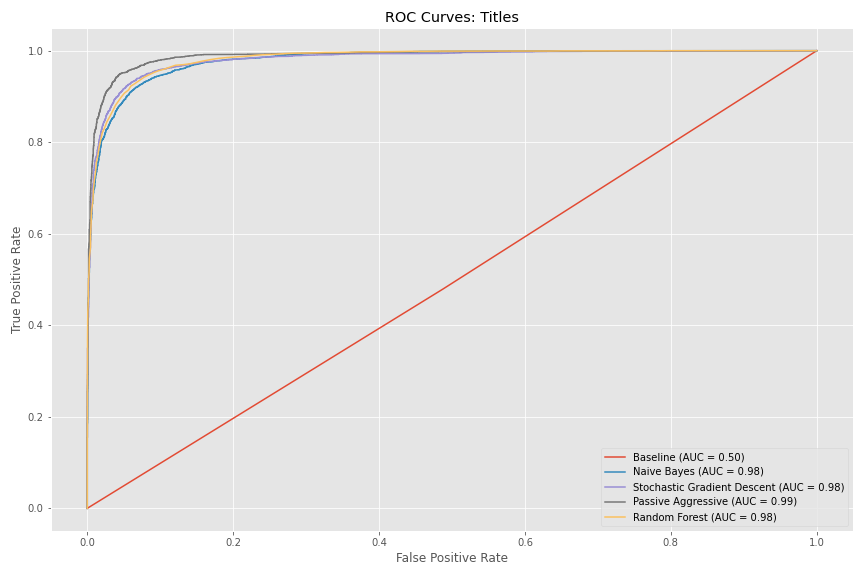
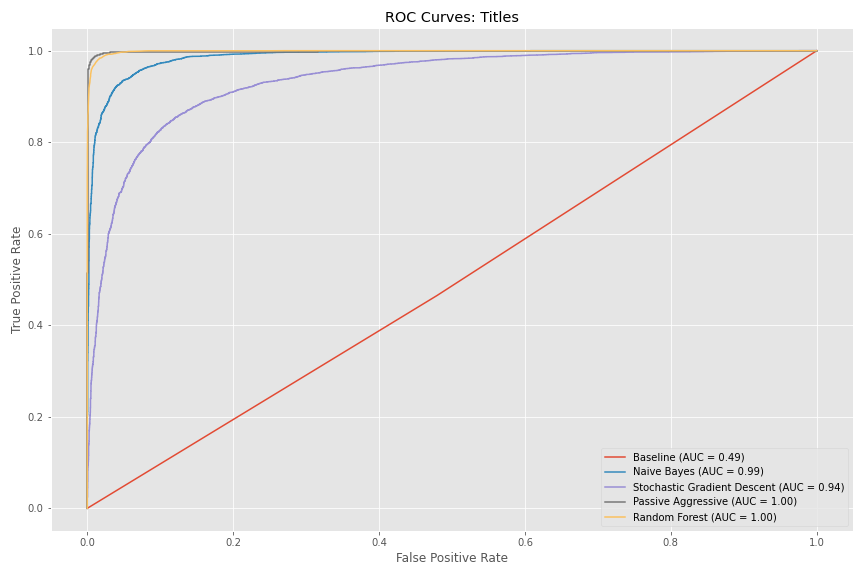
Added final images and src folder

diff --git a/src/models.py b/src/models.py
@@ -13,10 +13,23 @@ from sklearn.metrics import plot_roc_curve, confusion_matrix, classification_rep
 from nltk.tokenize import sent_tokenize
 
 def clean_text(x):
+    term_filter = ['eatured', 'image', 'Image', 'Getty',
+        'via', 'http', 'euters', 'Via', 'Read more:']
     lst = sent_tokenize(x)
-    if lst != [] and ' -' in lst[0]:
-        lst[0] = lst[0].split(' - ')[1]
-    return ''.join(lst)
+    if lst != []:
+        if ' -' in lst[0]:
+            lst[0] = lst[0].split(' -')[1]
+        for term in term_filter:
+            if term in lst[-1]:
+                lst[-1] = ''
+        lst = ''.join(lst)
+    x = str(lst)
+    x = x.replace('Reuters','')
+    x = x.replace('reuters', '')
+    x = x.replace('video','')
+    x = x.replace('Watch:','')
+    x = x.replace('twitter.com', '')
+    return x
 
 def clean_titles(x):
     x = x.replace('Factbox: ', '')
